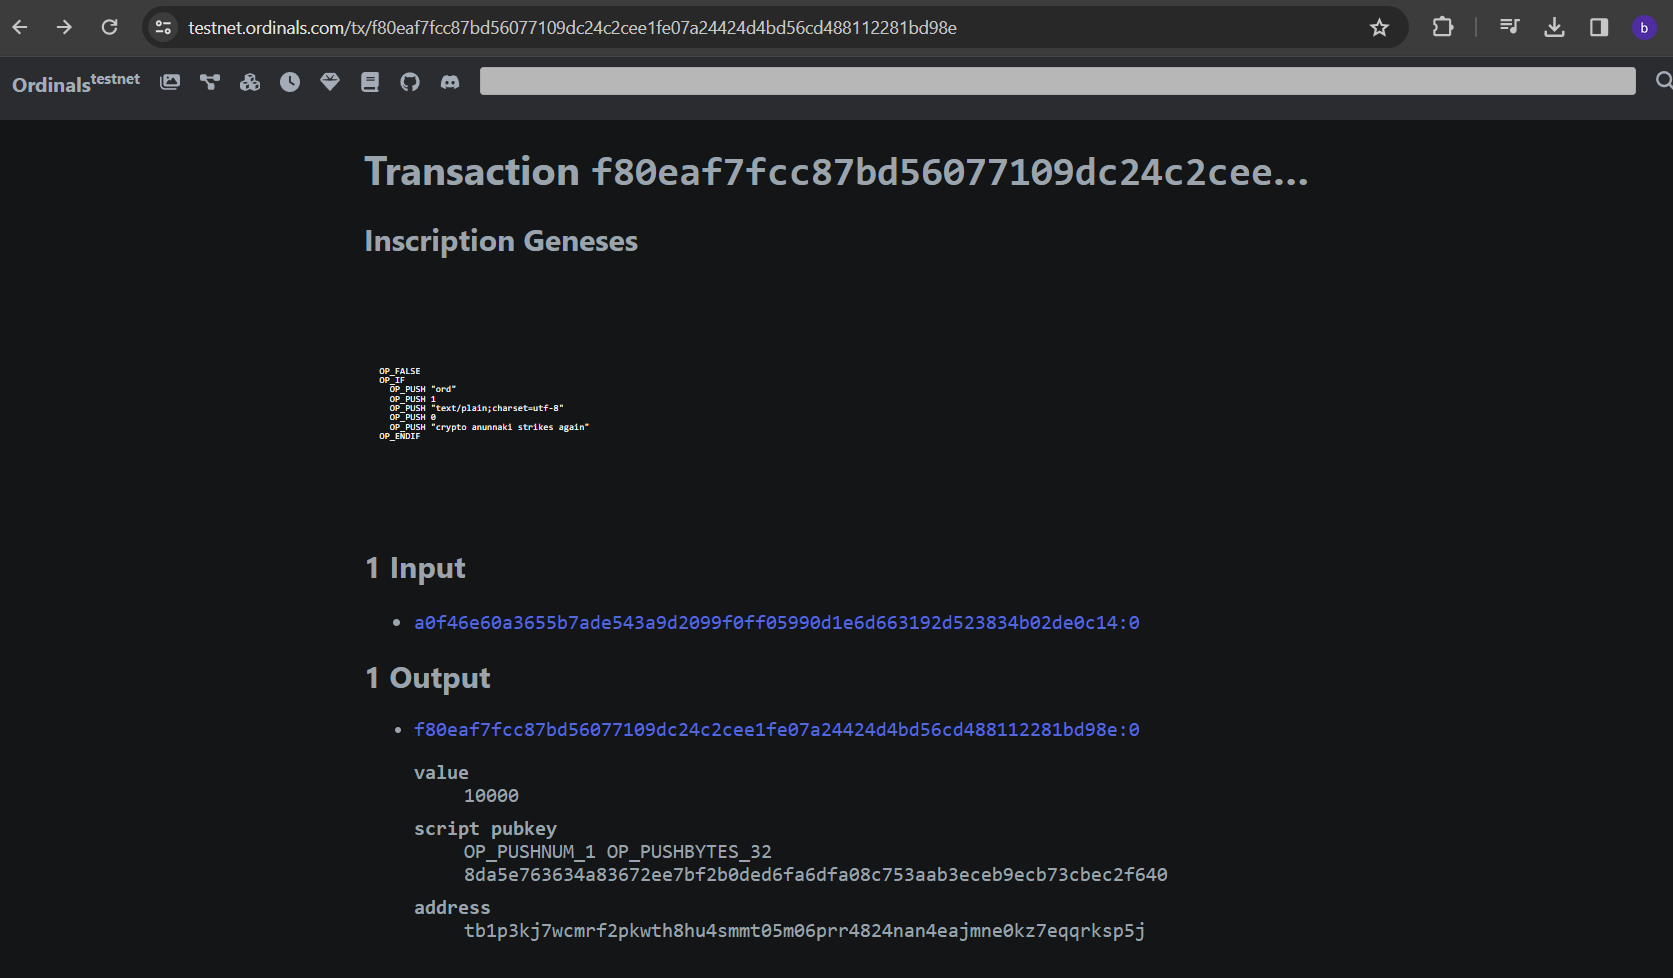
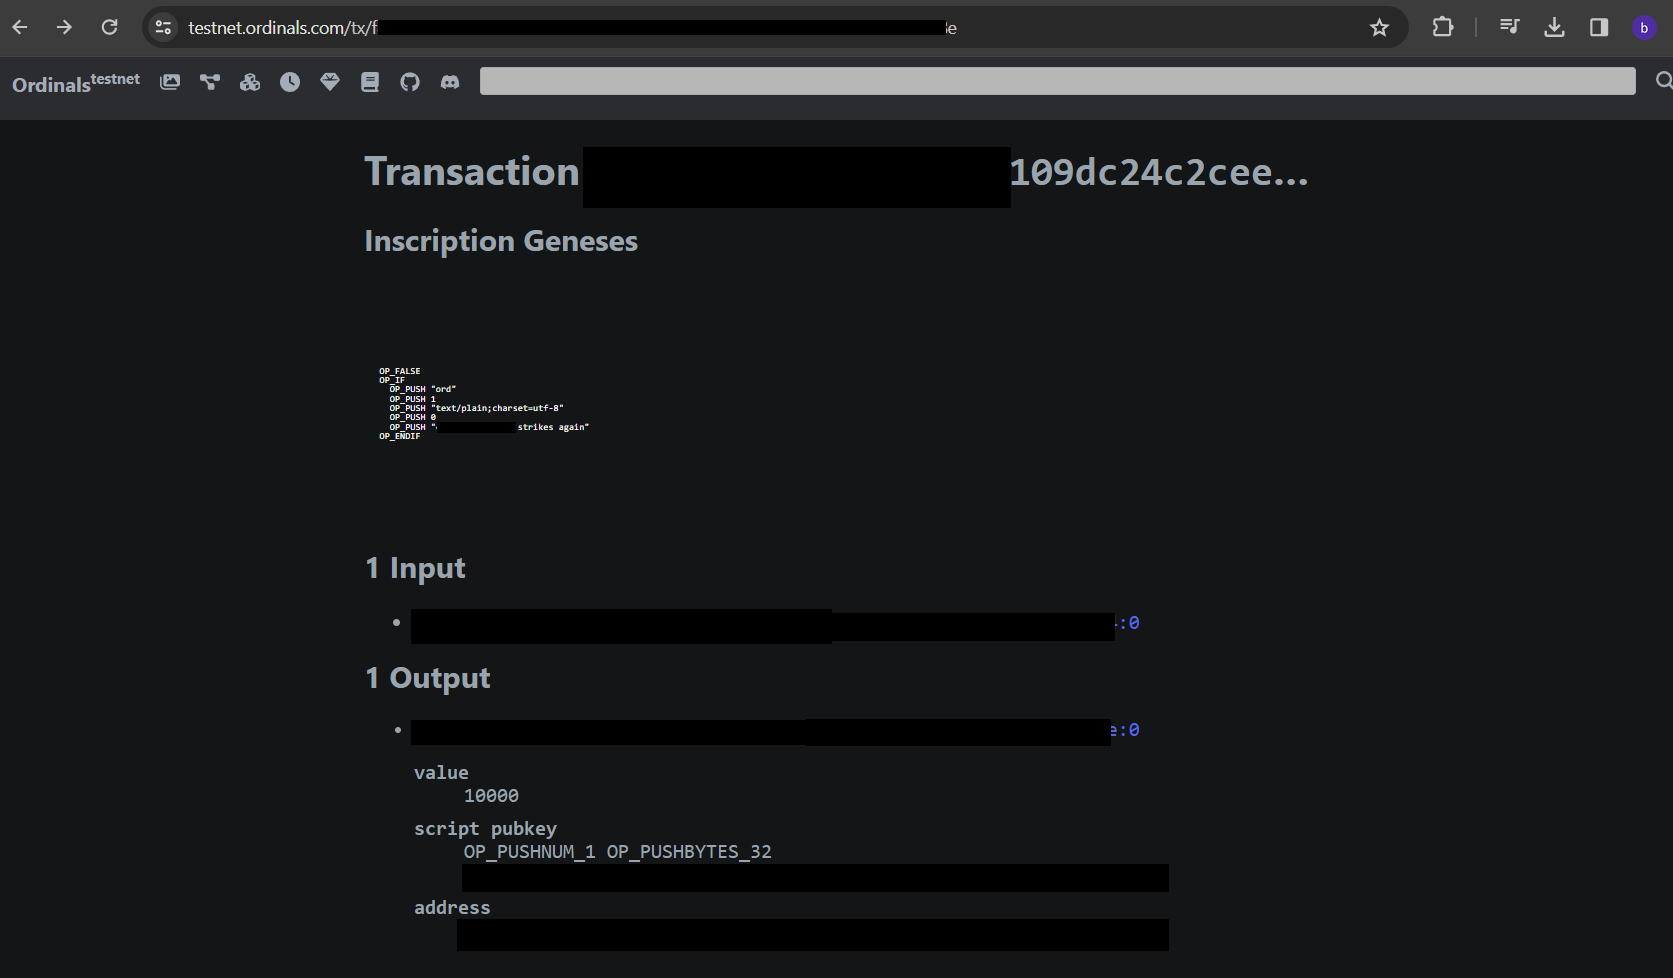
btc commit

diff --git a/README.md b/README.md
@@ -201,7 +201,7 @@ inscribed.txt:
     OP_PUSH 1
     OP_PUSH "text/plain;charset=utf-8"
     OP_PUSH 0
-    OP_PUSH "crypto anunnaki strikes again"
+    OP_PUSH "some text to inscribe"
     OP_ENDIF
 
 
